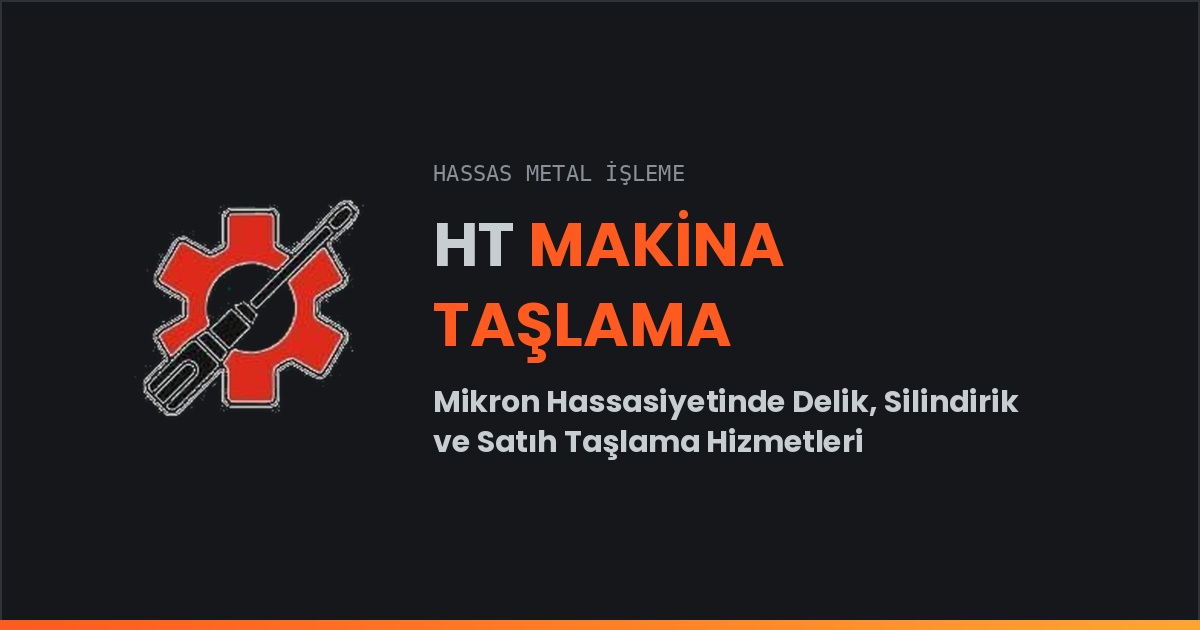
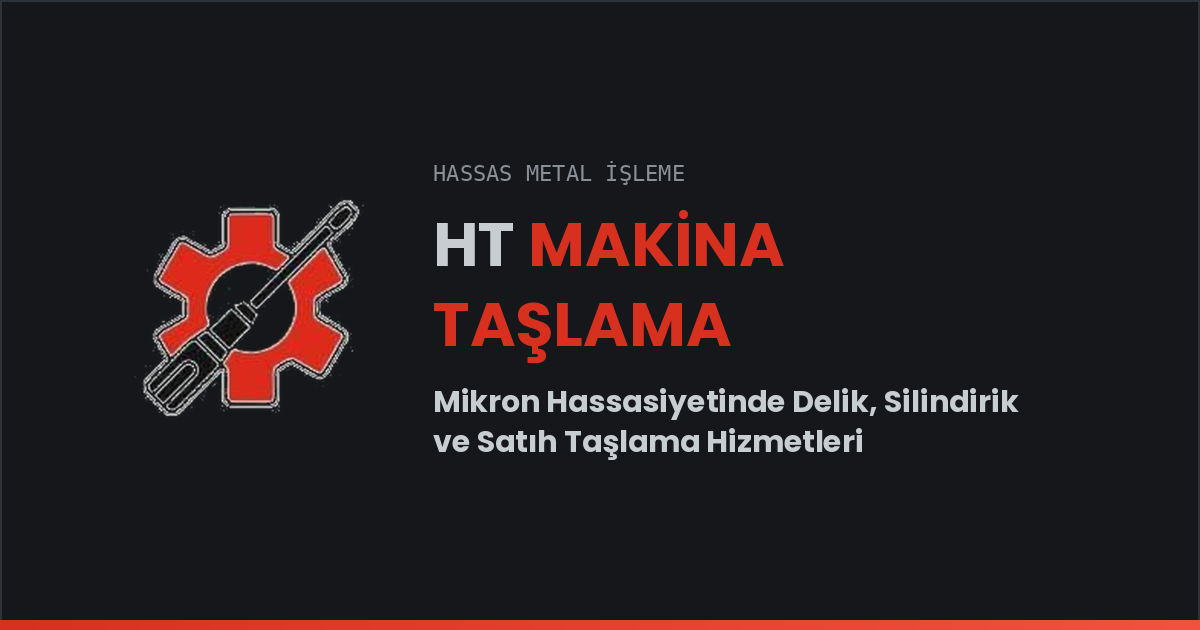
test 08

Changed region(s): [[0.0, 0.9651, 1.0, 1.0], [0.37, 0.4825, 0.6167, 0.573], [0.4317, 0.3317, 0.6475, 0.4222]]

diff --git a/components/site/HeroDiagram.tsx b/components/site/HeroDiagram.tsx
@@ -8,9 +8,9 @@ export default function HeroDiagram() {
     >
       <defs>
         <linearGradient id="sparkGrad" x1="0" y1="0" x2="1" y2="0">
-          <stop offset="0%" stopColor="#FF5A1F" stopOpacity="0" />
-          <stop offset="50%" stopColor="#FFA630" stopOpacity="1" />
-          <stop offset="100%" stopColor="#FF5A1F" stopOpacity="0" />
+          <stop offset="0%" stopColor="#D8301F" stopOpacity="0" />
+          <stop offset="50%" stopColor="#F2523F" stopOpacity="1" />
+          <stop offset="100%" stopColor="#D8301F" stopOpacity="0" />
         </linearGradient>
       </defs>
 
@@ -22,7 +22,7 @@ export default function HeroDiagram() {
         <circle r="120" fill="none" stroke="#2E3339" strokeWidth="1" />
         <circle r="86" fill="none" stroke="#3A4046" strokeWidth="1" strokeDasharray="2 4" />
         <circle r="52" fill="#23262B" stroke="#8A9096" strokeWidth="1.5" />
-        <circle r="14" fill="#15171A" stroke="#FF5A1F" strokeWidth="2" />
+        <circle r="14" fill="#15171A" stroke="#D8301F" strokeWidth="2" />
 
         {/* Taşlama diski temas noktası */}
         <g transform="rotate(-28)">
@@ -52,7 +52,7 @@ export default function HeroDiagram() {
       <text x="24" y="36" fill="#8A9096" fontFamily="var(--font-mono)" fontSize="11" letterSpacing="0.05em">
         DETAY A — SİLİNDİRİK YÜZEY
       </text>
-      <text x="24" y="52" fill="#FF5A1F" fontFamily="var(--font-mono)" fontSize="11" letterSpacing="0.05em">
+      <text x="24" y="52" fill="#D8301F" fontFamily="var(--font-mono)" fontSize="11" letterSpacing="0.05em">
         ÖLÇEK 2:1
       </text>
     </svg>

diff --git a/app/globals.css b/app/globals.css
@@ -16,7 +16,7 @@ body {
 }
 
 ::selection {
-  background-color: #ff5a1f;
+  background-color: #d8301f;
   color: #15171a;
 }
 
@@ -26,7 +26,7 @@ button:focus-visible,
 input:focus-visible,
 textarea:focus-visible,
 select:focus-visible {
-  outline: 2px solid #ff5a1f;
+  outline: 2px solid #d8301f;
   outline-offset: 2px;
 }
 
@@ -81,7 +81,7 @@ select:focus-visible {
   left: 0;
   width: 0;
   height: 2px;
-  background: linear-gradient(90deg, #ff5a1f, #ffa630);
+  background: linear-gradient(90deg, #d8301f, #f2523f);
   transition: width 0.35s ease;
 }
 .spec-card:hover::before {

diff --git a/tailwind.config.ts b/tailwind.config.ts
@@ -10,8 +10,8 @@ const config: Config = {
         steel2: "#2E3339",
         metal: "#C8CDD2",
         metalDim: "#8A9096",
-        spark: "#FF5A1F",
-        ember: "#FFA630",
+        spark: "#D8301F",
+        ember: "#F2523F",
         paper: "#F4F3EF",
       },
       fontFamily: {
@@ -20,7 +20,7 @@ const config: Config = {
         mono: ["var(--font-mono)", "monospace"],
       },
       backgroundImage: {
-        "spark-gradient": "linear-gradient(90deg, #FF5A1F 0%, #FFA630 100%)",
+        "spark-gradient": "linear-gradient(90deg, #D8301F 0%, #F2523F 100%)",
         "brushed-metal":
           "repeating-linear-gradient(100deg, rgba(255,255,255,0.03) 0px, rgba(255,255,255,0.03) 1px, transparent 1px, transparent 3px)",
       },

diff --git a/components/admin/MonthlyChart.tsx b/components/admin/MonthlyChart.tsx
@@ -16,8 +16,8 @@ export default function MonthlyChart({ data }: { data: MonthlyPoint[] }) {
             labelStyle={{ color: "#C8CDD2" }}
           />
           <Legend wrapperStyle={{ fontSize: 12 }} />
-          <Bar dataKey="teklif" name="Teklif" fill="#FF5A1F" radius={[2, 2, 0, 0]} />
-          <Bar dataKey="onSiparis" name="Ön Sipariş" fill="#FFA630" radius={[2, 2, 0, 0]} />
+          <Bar dataKey="teklif" name="Teklif" fill="#D8301F" radius={[2, 2, 0, 0]} />
+          <Bar dataKey="onSiparis" name="Ön Sipariş" fill="#F2523F" radius={[2, 2, 0, 0]} />
         </BarChart>
       </ResponsiveContainer>
     </div>